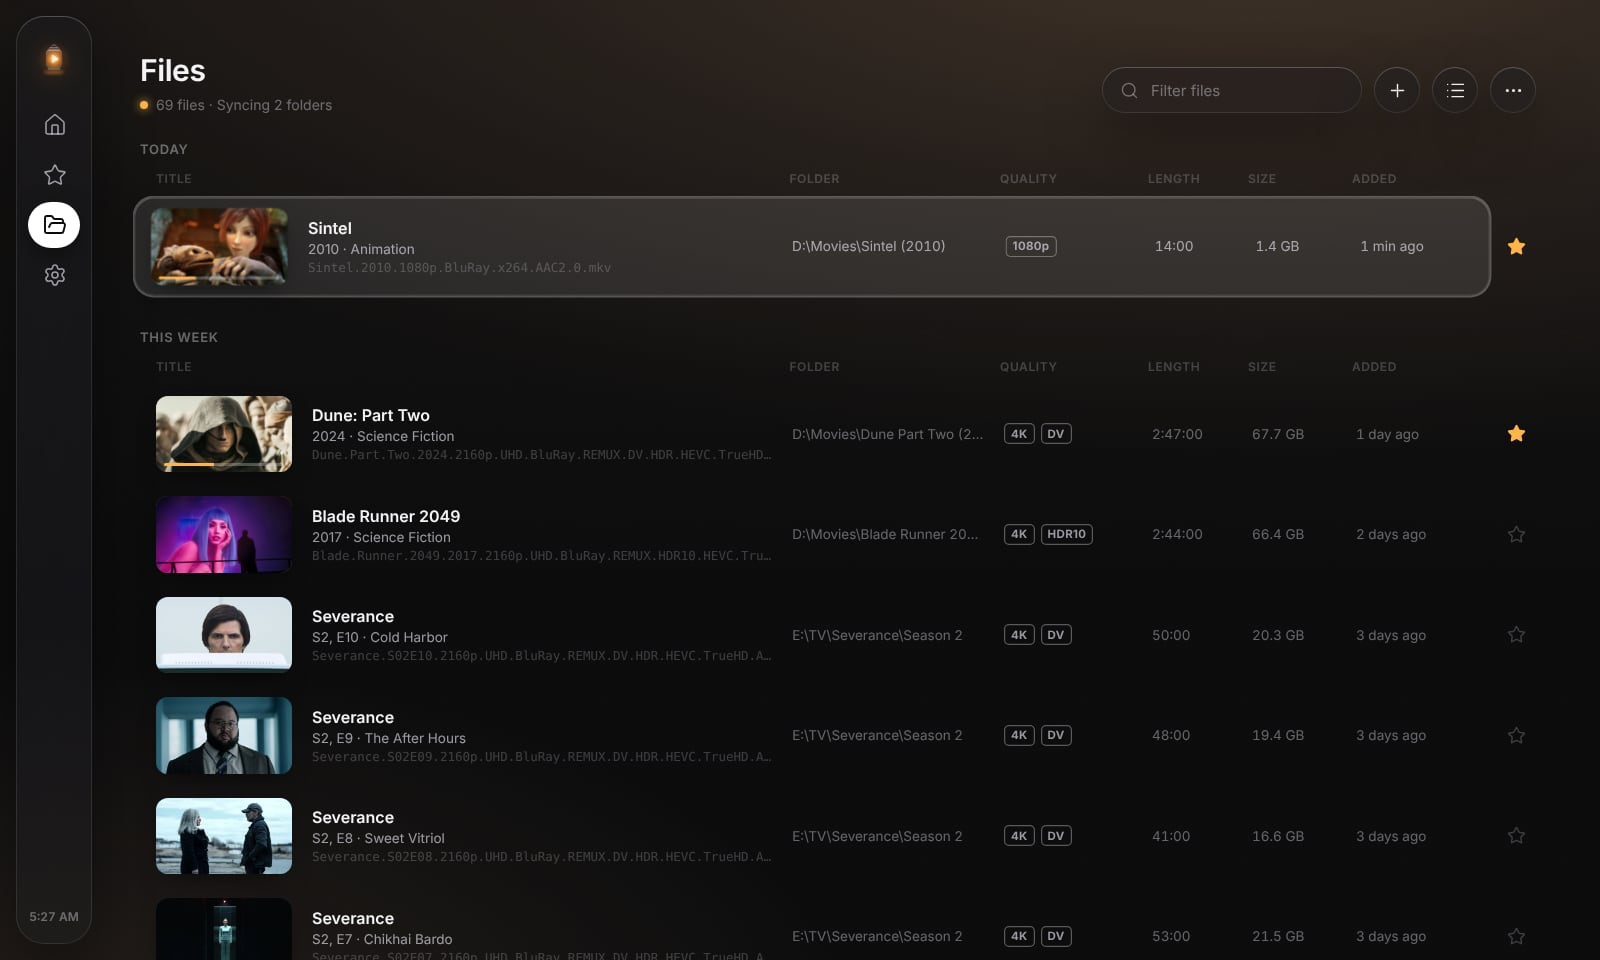
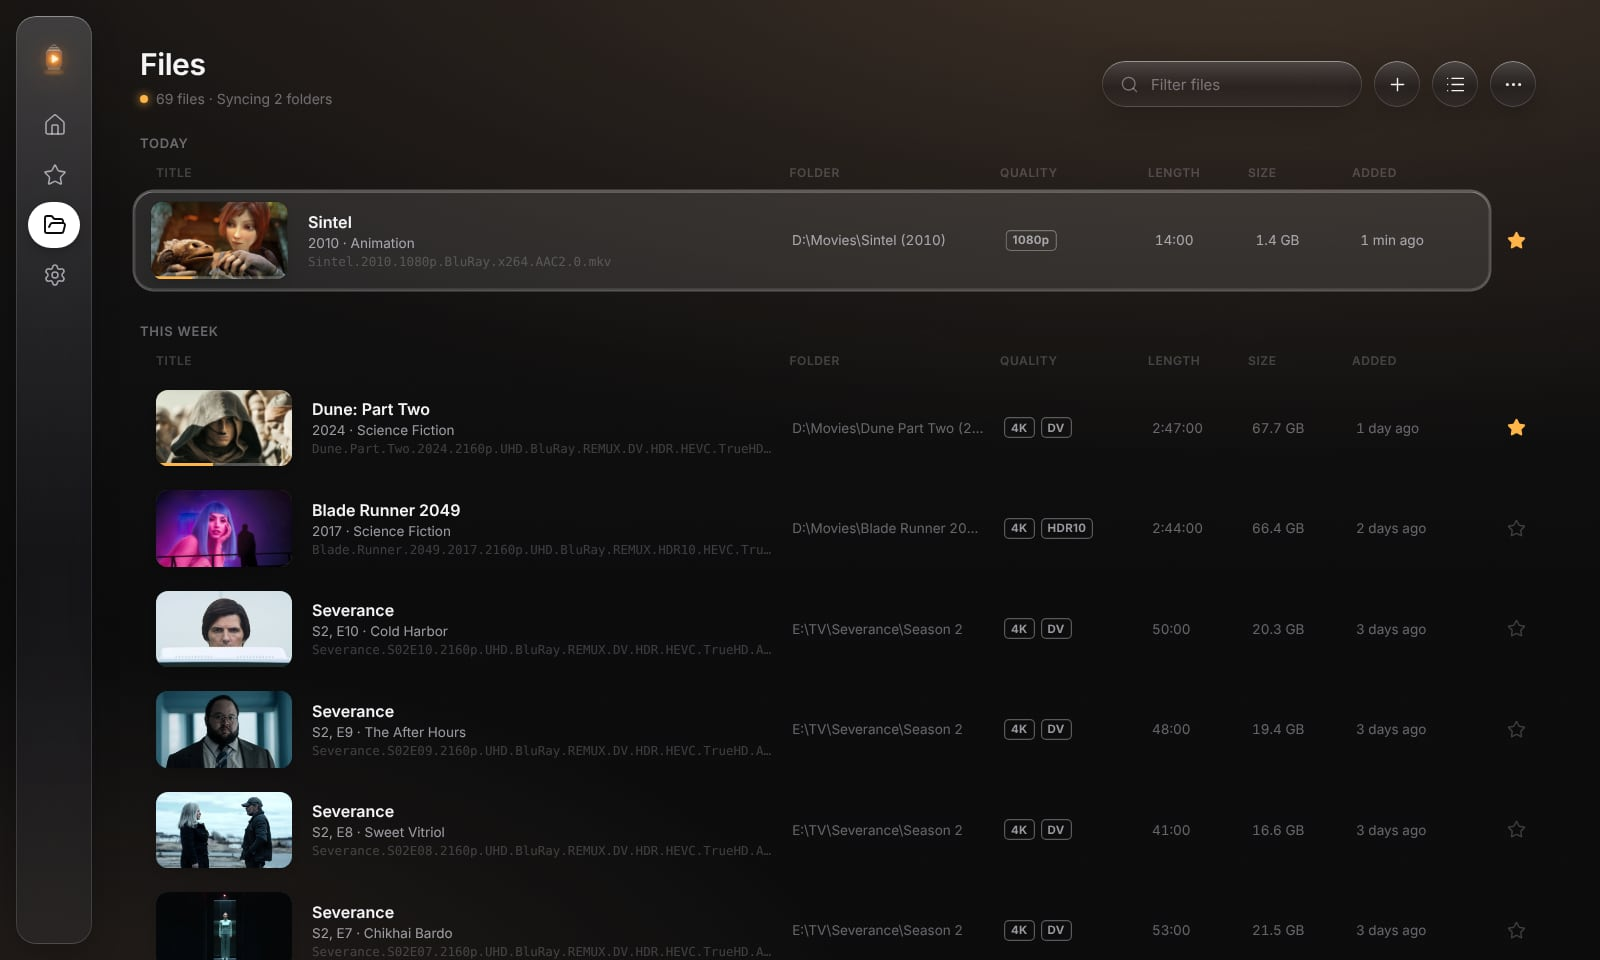
Download link, PowerShell installer, release workflow, glossier glass
- README: Download button and a one-line PowerShell install at the top,
  screenshots full width, release instructions.
- install.ps1 fetches the latest release installer and runs it.
- .github/workflows/release.yml builds the NSIS installer on Windows and
  publishes it as a GitHub Release (Run workflow, or push a v* tag).
- Installer has a fixed name so releases/latest/download always works.
- Glass gets a specular top sheen, brighter top edge and a faint bottom
  return; screenshots retaken.

Claude-Session: https://claude.ai/code/session_016wU2sGVtbDSBFLYG8XT1qE

diff --git a/src/renderer/src/design/tokens.css b/src/renderer/src/design/tokens.css
@@ -21,9 +21,10 @@
   /* Glass */
   --glass-fill: rgba(30, 30, 34, 0.46);
   --glass-fill-strong: rgba(36, 36, 40, 0.68);
-  --glass-blur: blur(30px) saturate(180%);
-  --glass-edge: inset 0 0 0 1px rgba(255, 255, 255, 0.1);
-  --glass-highlight: inset 0 1px 0 rgba(255, 255, 255, 0.16);
+  --glass-blur: blur(30px) saturate(190%) brightness(1.06);
+  --glass-edge: inset 0 0 0 1px rgba(255, 255, 255, 0.13);
+  --glass-highlight: inset 0 1px 0 rgba(255, 255, 255, 0.34), inset 0 -1px 0 rgba(255, 255, 255, 0.06);
+  --glass-gloss: linear-gradient(180deg, rgba(255, 255, 255, 0.16) 0%, rgba(255, 255, 255, 0.05) 34%, rgba(255, 255, 255, 0) 58%, rgba(255, 255, 255, 0.04) 100%);
   --glass-shadow: 0 10px 28px rgba(0, 0, 0, 0.22);
 
   /* Shape */
@@ -78,7 +79,8 @@
   --glass-fill: rgba(255, 255, 255, 0.58);
   --glass-fill-strong: rgba(255, 255, 255, 0.82);
   --glass-edge: inset 0 0 0 1px rgba(0, 0, 0, 0.07);
-  --glass-highlight: inset 0 1px 0 rgba(255, 255, 255, 0.9);
+  --glass-highlight: inset 0 1px 0 rgba(255, 255, 255, 1), inset 0 -1px 0 rgba(0, 0, 0, 0.04);
+  --glass-gloss: linear-gradient(180deg, rgba(255, 255, 255, 0.7) 0%, rgba(255, 255, 255, 0.2) 40%, rgba(255, 255, 255, 0) 70%);
   --glass-shadow: 0 10px 28px rgba(30, 30, 40, 0.08);
   --lift: 0 16px 32px -14px rgba(30, 30, 40, 0.25);
   --rest: 0 6px 14px -8px rgba(30, 30, 40, 0.18);
@@ -103,7 +105,8 @@
   --glass-fill: rgba(30, 30, 34, 0.46);
   --glass-fill-strong: rgba(36, 36, 40, 0.68);
   --glass-edge: inset 0 0 0 1px rgba(255, 255, 255, 0.1);
-  --glass-highlight: inset 0 1px 0 rgba(255, 255, 255, 0.16);
+  --glass-highlight: inset 0 1px 0 rgba(255, 255, 255, 0.34), inset 0 -1px 0 rgba(255, 255, 255, 0.06);
+  --glass-gloss: linear-gradient(180deg, rgba(255, 255, 255, 0.16) 0%, rgba(255, 255, 255, 0.05) 34%, rgba(255, 255, 255, 0) 58%, rgba(255, 255, 255, 0.04) 100%);
   --bg-raised: #141416;
 }
 

diff --git a/src/renderer/src/design/base.css b/src/renderer/src/design/base.css
@@ -92,6 +92,11 @@ input {
   backdrop-filter: var(--glass-blur);
   box-shadow: var(--glass-edge), var(--glass-highlight), var(--glass-shadow);
 }
+/* Gloss: a specular sheen across the top and a faint return at the bottom edge, like light on a pane. */
+.glass,
+.glass-strong {
+  background-image: var(--glass-gloss);
+}
 
 /* ---------- Skeleton ---------- */
 .skeleton {

diff --git a/README.md b/README.md
@@ -5,20 +5,59 @@ A premium local media player for Windows. Point it at your folders and it turns 
 > The magic lantern was the first projector: a light, a painted glass slide, and a dark room turned into a story.
 > Magic Lanterns does the same to a folder of files.
 
-![Home](docs/screenshots/home.jpg)
+![Magic Lanterns Home](docs/screenshots/home.jpg)
+
+## Download (Windows 10 / 11)
+
+**[⬇ Download MagicLanterns-Setup.exe](https://github.com/PushkarX-Code/MagicLanterns/releases/latest/download/MagicLanterns-Setup.exe)**, then run it.
+
+Or install from PowerShell in one line:
+
+```powershell
+irm https://raw.githubusercontent.com/PushkarX-Code/MagicLanterns/main/install.ps1 | iex
+```
+
+This downloads the latest release and opens the installer. The app isn't code-signed yet, so Windows SmartScreen may say *"Windows protected your PC"*: click **More info → Run anyway**.
 
 ## Screenshots
 
-All screenshots are of the running app. Artwork and details are real film data; the player is showing the open-licensed film *Sintel*.
+Every screenshot is the running app. Artwork and details are real film data; the player is showing the open-licensed film *Sintel*.
 
-| | |
-|---|---|
-| ![Home rows](docs/screenshots/home-rows.jpg) **Home.** Recents, Recently Added and Picks of the Day | ![Genres](docs/screenshots/home-genres.jpg) **Film Genres, Unwatched, Most Watched** |
-| ![Detail](docs/screenshots/detail.jpg) **Detail page** with ratings, formats and resume | ![Player](docs/screenshots/player.jpg) **Player** |
-| ![Paused](docs/screenshots/player-paused.jpg) **Paused** shows where you are | ![Favorites](docs/screenshots/favorites.jpg) **Favorites** |
-| ![Files list](docs/screenshots/files-list.jpg) **Files** in list view, grouped by when they arrived | ![Files grid](docs/screenshots/files-grid.jpg) **Files** in grid view |
-| ![Files menu](docs/screenshots/files-more.jpg) **More menu.** Sort, select, starred, hide watched | ![Light theme](docs/screenshots/theme-light.jpg) **Light theme** |
-| ![Video settings](docs/screenshots/settings-video.jpg) **Settings · Video** | ![Audio settings](docs/screenshots/settings-audio.jpg) **Settings · Audio** with the 10-band equalizer |
+**Home.** Recents, Recently Added, Picks of the Day
+![Home rows](docs/screenshots/home-rows.jpg)
+
+**Film Genres, Unwatched and Most Watched**
+![Genres](docs/screenshots/home-genres.jpg)
+
+**Detail page** with ratings, formats, resume and watchlist
+![Detail](docs/screenshots/detail.jpg)
+
+**Player**
+![Player](docs/screenshots/player.jpg)
+
+**Paused**
+![Paused](docs/screenshots/player-paused.jpg)
+
+**Files.** List view, grouped by when files arrived
+![Files list](docs/screenshots/files-list.jpg)
+
+**Files.** Grid view
+![Files grid](docs/screenshots/files-grid.jpg)
+
+**Files.** The More menu: sort, select, starred, hide watched
+![Files menu](docs/screenshots/files-more.jpg)
+
+**Favorites**
+![Favorites](docs/screenshots/favorites.jpg)
+
+**Settings.** Video
+![Video settings](docs/screenshots/settings-video.jpg)
+
+**Settings.** Audio, with the 10-band equalizer
+![Audio settings](docs/screenshots/settings-audio.jpg)
+
+**Light theme**
+![Light theme](docs/screenshots/theme-light.jpg)
 
 ## What's in it
 
@@ -44,7 +83,7 @@ All screenshots are of the running app. Artwork and details are real film data; 
 
 **Motion:** every button, card and row sinks when pressed and springs back. Reduce Motion swaps this for gentle fades.
 
-## Run it (Windows)
+## Build from source
 
 Requires [Node.js 20+](https://nodejs.org).
 
@@ -64,12 +103,17 @@ The first `npm install` downloads the desktop runtime (about 100 MB).
 | `npm run icons` | Rebuild `build/icon.ico` and PNGs from `build/icon-src/*.svg` |
 | `npm run dist` | Build the Windows installer into `release/` |
 
+### Publishing a release
+
+In GitHub, open **Actions → Release → Run workflow**, enter a version such as `v0.1.0`, and run it. It builds the installer on Windows and publishes it as a Release, which the download link and the PowerShell command above always point at. Pushing a tag like `v0.1.0` does the same.
+
 ### Metadata keys
 
 Posters, banners and film details work out of the box. Live lookups for new files (Phase 3) use two free API keys that are built into the app at compile time and never shown in Settings:
 
 1. Copy `.env.example` to `.env`.
 2. Fill in `MAIN_VITE_TMDB_API_KEY` and `MAIN_VITE_OMDB_API_KEY`.
+3. For release builds, add the same values as repository secrets named `TMDB_API_KEY` and `OMDB_API_KEY`.
 
 `.env` is git-ignored, and the keys stay in the main process; the interface never sees them.
 
